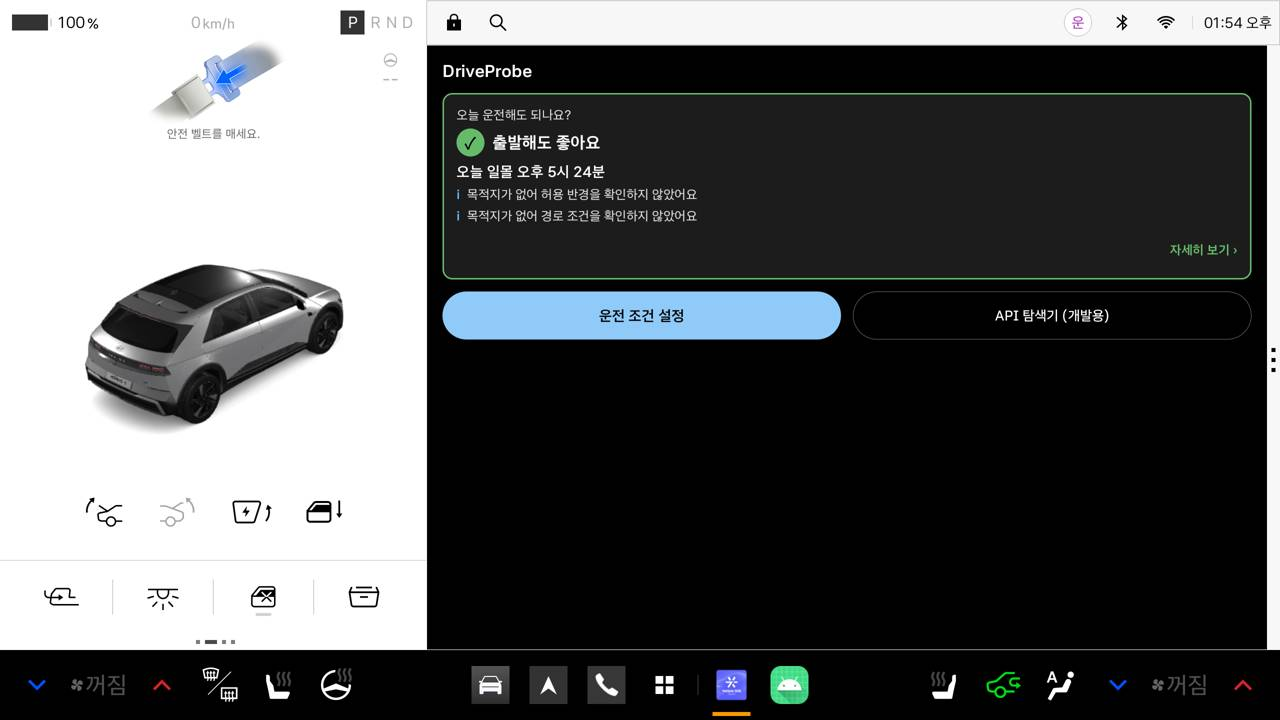
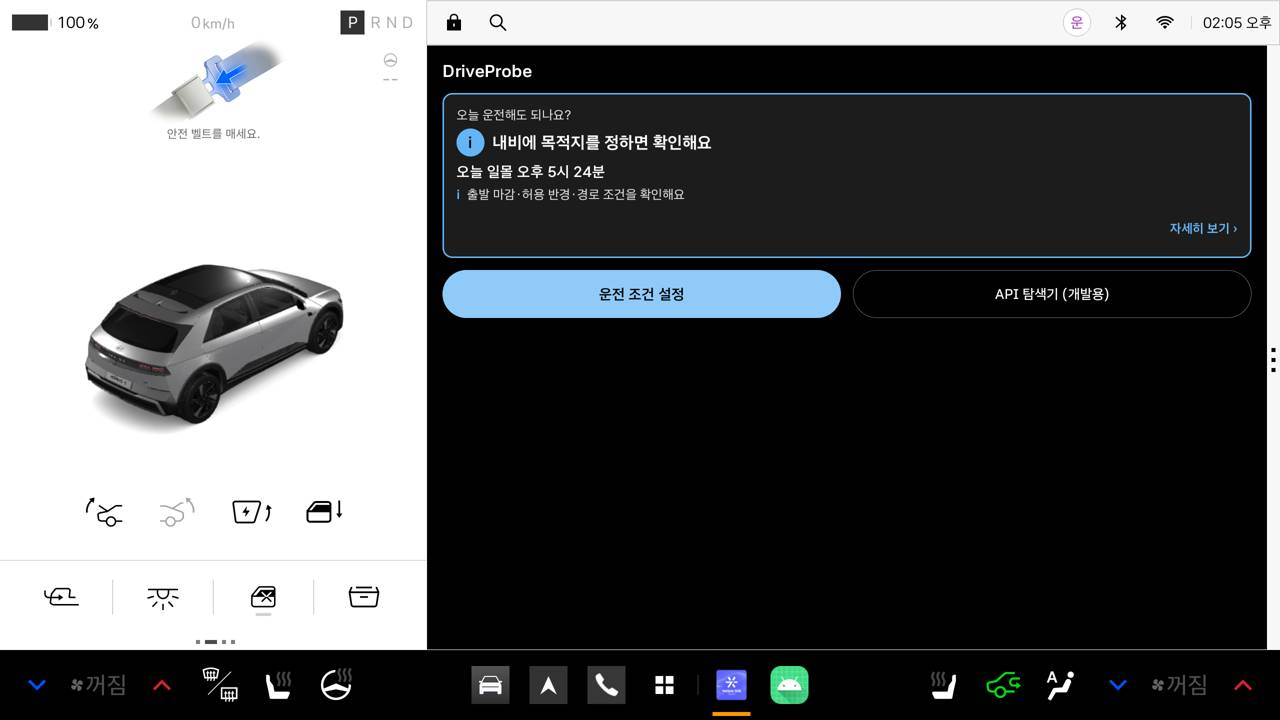
feat(home): 내비 목적지가 없으면 홈 카드가 판정 대신 목적지 설정을 안내

Changed region(s): [[0.3438, 0.3056, 1.0, 0.4889], [0.3438, 0.1222, 0.9688, 0.3056], [0.9375, 0.0, 0.9688, 0.0611]]

diff --git a/departure-ui/src/main/kotlin/com/pleos/departure/ui/state/DepartureHomeCardState.kt b/departure-ui/src/main/kotlin/com/pleos/departure/ui/state/DepartureHomeCardState.kt
@@ -37,6 +37,7 @@ object HomeCardSummary {
     const val VERDICT_DANGER = "출발 전에 꼭 확인하세요"
     const val VERDICT_UNKNOWN = "확인하지 못한 항목이 있어요"
     const val VERDICT_CONDITION_NOT_SET = "운전 조건을 먼저 정해 주세요"
+    const val VERDICT_NO_DESTINATION = "내비에 목적지를 정하면 확인해요"
     const val VERDICT_CHECKING = "확인 중이에요"
     const val VERDICT_NOT_CHECKED = "아직 확인하지 않았어요"
 
@@ -58,6 +59,24 @@ object HomeCardSummary {
                 verdict = VERDICT_CONDITION_NOT_SET,
                 headline = null,
                 lines = emptyList(),
+                openEnabled = ui.controlsEnabled,
+            )
+        }
+
+        // 경로 교체 중일 수 있어 목적지를 다시 확인하는 중 → 판정하지 않는다
+        if (content.rechecking) {
+            return HomeCardState(Tone.UNKNOWN, StatusIcon.WAIT, VERDICT_CHECKING, null, emptyList(), ui.controlsEnabled)
+        }
+
+        // 출발 전 확인은 내비 목적지 기준(작업 #26). 목적지가 없으면 판정하지 않고 목적지를 정하도록 안내한다
+        // — 목적지 없이 "출발해도 좋아요"로 보이면 해가 진 뒤에도 그렇게 보일 수 있다. 오늘 일몰(출발지 기준)은 참고로 보여 준다
+        if (!content.destinationSet) {
+            return HomeCardState(
+                tone = Tone.INFO,
+                icon = StatusIcon.INFO,
+                verdict = VERDICT_NO_DESTINATION,
+                headline = content.main.headline,
+                lines = listOf(HomeCardLine(Tone.INFO, StatusIcon.INFO, "출발 마감·허용 반경·경로 조건을 확인해요")),
                 openEnabled = ui.controlsEnabled,
             )
         }

diff --git a/departure-ui/src/test/kotlin/com/pleos/departure/ui/state/HomeCardSummaryTest.kt b/departure-ui/src/test/kotlin/com/pleos/departure/ui/state/HomeCardSummaryTest.kt
@@ -105,6 +105,30 @@ class HomeCardSummaryTest {
     }
 
     @Test
+    fun noDestination_doesNotJudge_asksForDestination() {
+        // 작업 #26: 출발 전 확인은 목적지 기준. 목적지가 없으면 모든 카드가 참고(INFO)라도 "출발해도 좋아요"로 보이면 안 된다
+        val noDest = DepartureContent(
+            conditionNotice = null,
+            main = card(Tone.INFO, "내비에 목적지를 설정하면 출발 마감을 알려 드려요", headline = "오늘 일몰 오후 5시 24분"),
+            radius = card(Tone.INFO, "목적지가 없어 허용 반경을 확인하지 않았어요"),
+            route = null,
+            destinationSet = false,
+        )
+        val s = HomeCardSummary.from(ui(noDest))
+        assertEquals(HomeCardSummary.VERDICT_NO_DESTINATION, s.verdict)
+        assertEquals(Tone.INFO, s.tone)
+        assertEquals("오늘 일몰 오후 5시 24분", s.headline)
+        assertEquals(1, s.lines.size)
+    }
+
+    @Test
+    fun recheckingDestination_showsChecking() {
+        val s = HomeCardSummary.from(ui(content().copy(rechecking = true)))
+        assertEquals(HomeCardSummary.VERDICT_CHECKING, s.verdict)
+        assertEquals(Tone.UNKNOWN, s.tone)
+    }
+
+    @Test
     fun whileDriving_cannotOpen() {
         assertFalse(HomeCardSummary.from(ui(content(), controls = false)).openEnabled)
     }

diff --git a/departure-ui/src/main/kotlin/com/pleos/departure/ui/state/DepartureUiState.kt b/departure-ui/src/main/kotlin/com/pleos/departure/ui/state/DepartureUiState.kt
@@ -75,6 +75,9 @@ data class RouteCard(
  * @property route 경로 조건 카드. 조건 미설정이거나 출발 자제(마감 지남·야간)면 null — 운전을 부추기는 조작 안내를 띄우지 않는다.
  *   확인 자체가 실패했어도 null.
  * @property conditionSet 운전자 조건이 저장돼 있는가. 미설정이면 false — 홈 카드가 "출발해도 좋아요"로 보이지 않게 구분한다(작업 #24).
+ * @property destinationSet 내비 목적지가 있는가. 확인된 '목적지 없음'이면 false — 출발 전 확인은 목적지 기준이라
+ *   홈 카드가 판정 대신 "내비에 목적지를 정하면 확인해요"를 보여 준다(작업 #26, 사용자 결정 11/11). 목적지 확인 불가는 true(확인 불가로 표시)
+ * @property rechecking 목적지가 잠깐 사라져(경로 교체 중일 수 있음) 다시 확인하는 중. 홈 카드는 "확인 중이에요"
  */
 data class DepartureContent(
     val conditionNotice: StatusCard?,
@@ -82,6 +85,8 @@ data class DepartureContent(
     val radius: StatusCard?,
     val route: RouteCard?,
     val conditionSet: Boolean = true,
+    val destinationSet: Boolean = true,
+    val rechecking: Boolean = false,
 )
 
 /**

diff --git a/departure-ui/src/test/kotlin/com/pleos/departure/ui/state/DepartureDisplayMapperTest.kt b/departure-ui/src/test/kotlin/com/pleos/departure/ui/state/DepartureDisplayMapperTest.kt
@@ -191,6 +191,21 @@ class DepartureDisplayMapperTest {
     }
 
     @Test
+    fun destinationFlags_followNaviDestinationAndRechecking() {
+        // 작업 #26: 홈 카드가 목적지 없음·재확인 중을 구분하는 값
+        val noDest = snapshot(
+            deadline = DepartureDeadlineResult.DestinationNotSet(now, null),
+            radius = RadiusCheckResult.DestinationNotSet,
+            route = RouteConditionCheck.DestinationNotSet,
+        ).copy(destination = DataResult.Available(NaviDestination.NotSet))
+        assertFalse(map(noDest).destinationSet)
+        assertTrue(map(noDest, DisplayContext(rechecking = true)).rechecking)
+        assertTrue(map(snapshot()).destinationSet)
+        // 목적지 확인 불가는 '목적지 없음'이 아니다(확인 불가로 표시)
+        assertTrue(map(snapshot().copy(destination = DataResult.Unavailable(UnavailableReason.TIMEOUT))).destinationSet)
+    }
+
+    @Test
     fun originSunsetUnknownOrHome() {
         val unknown = map(snapshot(deadline = DepartureDeadlineResult.DestinationNotSet(now, null))).main
         assertNull(unknown.headline)

diff --git a/departure-ui/src/main/kotlin/com/pleos/departure/ui/state/DepartureDisplayMapper.kt b/departure-ui/src/main/kotlin/com/pleos/departure/ui/state/DepartureDisplayMapper.kt
@@ -104,6 +104,10 @@ class DepartureDisplayMapper(private val zone: ZoneId) {
                 main = deadlineCard(snapshot.deadline, ctx),
                 radius = if (discourages) asSecondary(radius) else radius,
                 route = if (discourages) null else routeCard(snapshot.route, snapshot.condition, ctx),
+                // 작업 #26: 출발 전 확인은 내비 목적지 기준. 확인된 '목적지 없음'만 false(확인 불가는 따로 '확인 불가'로 보인다)
+                destinationSet = (snapshot.destination as? com.pleos.departure.model.DataResult.Available)?.value
+                    != com.pleos.departure.model.NaviDestination.NotSet,
+                rechecking = ctx.rechecking,
             )
         }
     }

diff --git a/docs/departure/README.md b/docs/departure/README.md
@@ -61,6 +61,7 @@ session.resetSession()                     // 세션 기억을 지우고 다시 
 - 카드를 누르면 '출발 전' 확인 전체 화면(`AppPage.DEPARTURE_DETAIL`), [← 홈으로]로 돌아온다. API 탐색기 머리의 [← 홈]도 홈으로 간다. 운전 조건 설정의 [← 돌아가기]도 홈으로 간다.
 - 화면 코드: 2번 `:departure-ui` 모듈(`DepartureHomeCard`, `DepartureScreen`, 문구는 `DepartureDisplayMapper`·`HomeCardSummary`). 1번 앱 쪽은 `ui/screen/DepartureHomeScreen.kt`(홈·상세 틀)와 `departure/DepartureHomeViewModel.kt`(세션을 viewModelScope 로 — 홈 ↔ 상세 이동·Activity 재생성에도 같은 세션)뿐이다.
 - 카드는 새 판정을 하지 않고 전체 화면 결과를 요약한다: 위험 > 확인 불가 > 주의 > 문제 없음 중 가장 나쁜 쪽, 요약 최대 2줄. 조건 미설정이면 "운전 조건을 먼저 정해 주세요".
+- **출발 전 확인은 내비 목적지 기준**이다. 목적지가 없으면 판정하지 않고 "내비에 목적지를 정하면 확인해요"(+ 오늘 일몰)를 보여 준다. 목적지가 잠깐 사라진 재확인 중에는 "확인 중이에요". 에뮬레이터 확인: 목적지 서울역 → "출발 전에 확인할 것이 있어요 / 오후 3시 26분까지 출발 / ✓ 반경 안 / ! 유료도로 경로"
 - 확인은 화면이 보일 때만 돈다(주행 중 화면 미사용 결정과 같은 방향).
 
 ### 2.1 운전자 조건 설정 화면 (작업 #17)
